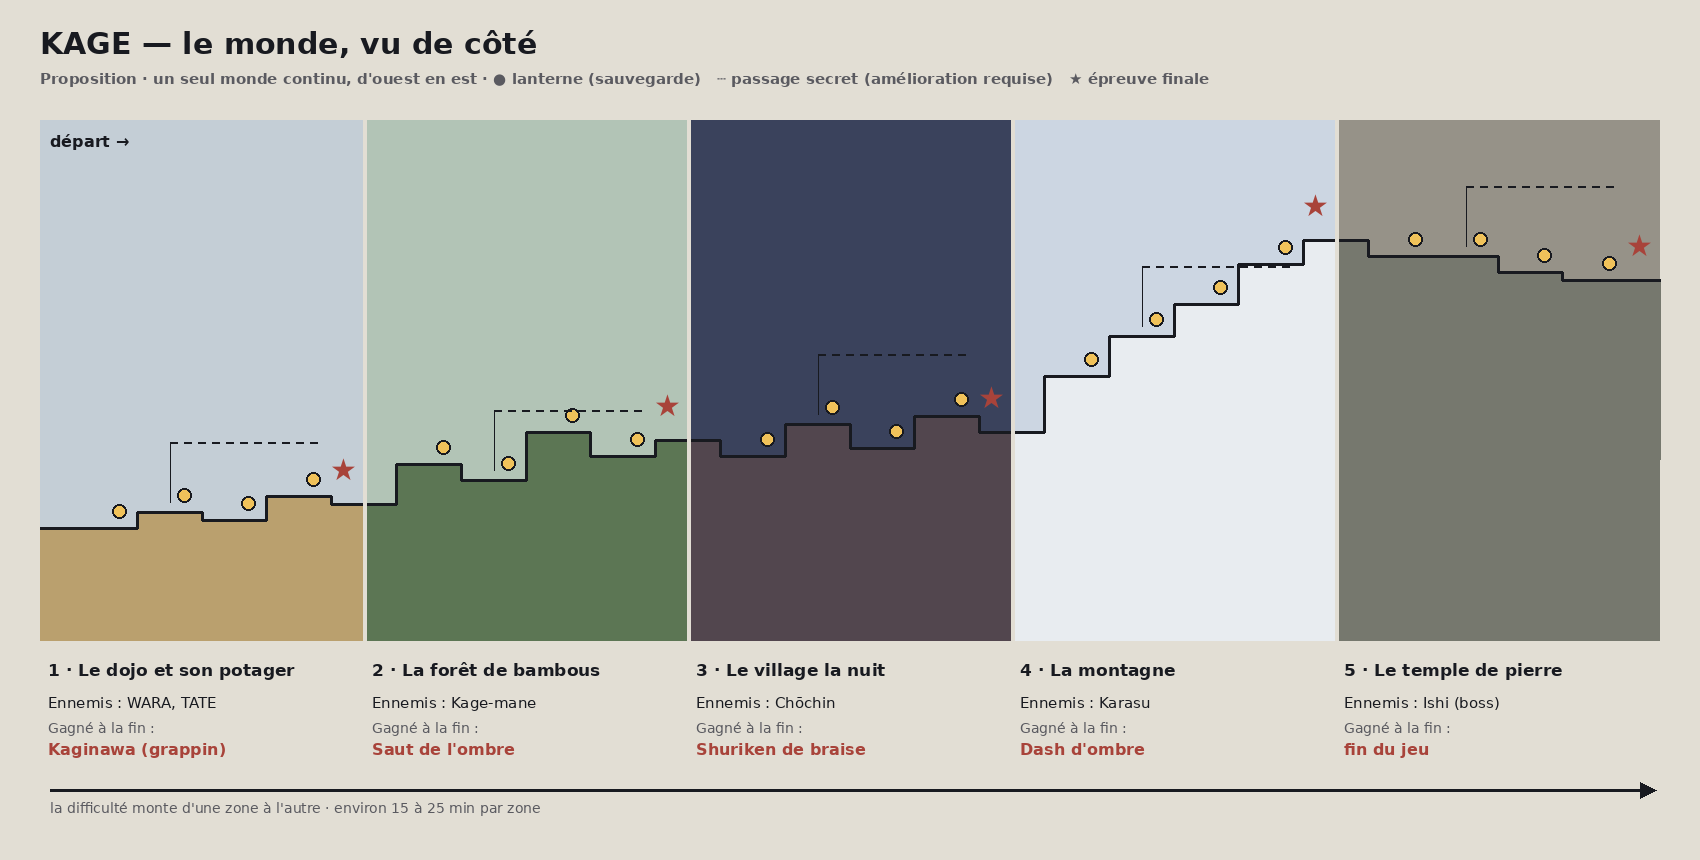
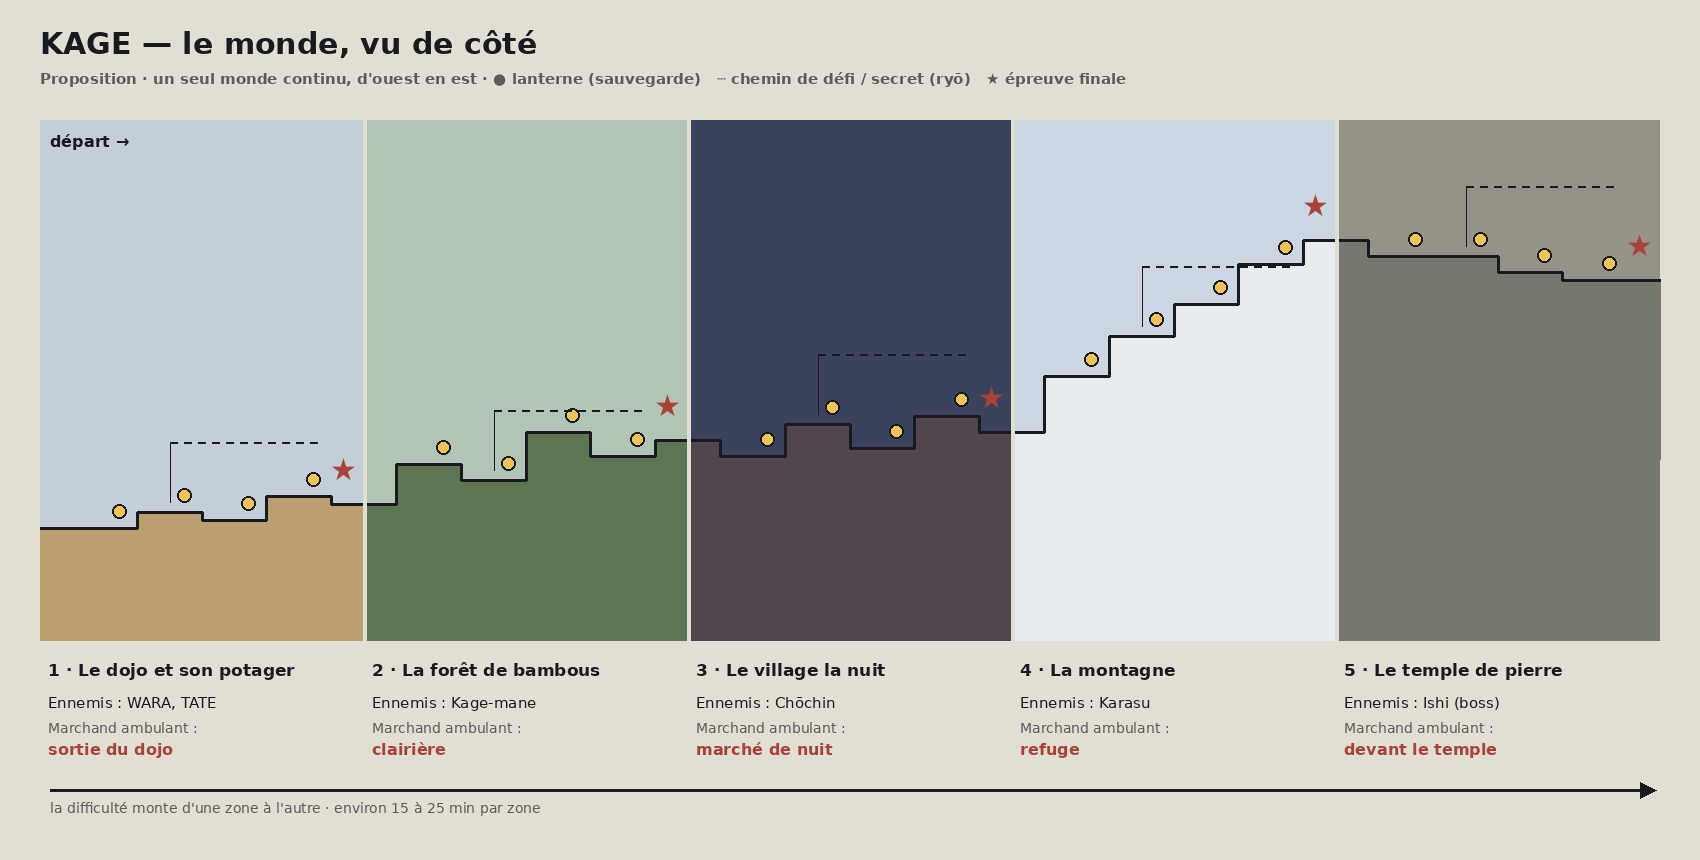
Plan du monde : mécaniques toutes actives, marchand, monnaie et skins
Décisions de l'utilisateur intégrées : aucune mécanique à débloquer (tout
est actif dès le début) ; un marchand ambulant croisé à plusieurs endroits
et moments, qui vend des skins de ninja et d'armes à plusieurs prix ; une
monnaie (proposée : les ryō) récoltée en jouant. Améliorations retirées,
carte et questions ouvertes mises à jour.

Claude-Session: https://claude.ai/code/session_01A2iwx3xJBpYvMptTrw61H7

diff --git a/tools/monde_carte.py b/tools/monde_carte.py
@@ -15,15 +15,15 @@ RED = (168, 67, 58)
 
 ZONES = [
     # nom, ennemi(s), amélioration, couleur du ciel, couleur du sol, hauteurs du relief (0..1)
-    ("1 · Le dojo et son potager", "WARA, TATE", "Kaginawa (grappin)", (196, 206, 214), (186, 160, 110),
+    ("1 · Le dojo et son potager", "WARA, TATE", "marchand : sortie du dojo", (196, 206, 214), (186, 160, 110),
      [0.18, 0.18, 0.22, 0.2, 0.26, 0.24]),
-    ("2 · La forêt de bambous", "Kage-mane", "Saut de l'ombre", (178, 196, 182), (92, 118, 84),
+    ("2 · La forêt de bambous", "Kage-mane", "marchand : clairière", (178, 196, 182), (92, 118, 84),
      [0.24, 0.34, 0.3, 0.42, 0.36, 0.4]),
-    ("3 · Le village la nuit", "Chōchin", "Shuriken de braise", (58, 66, 92), (82, 70, 78),
+    ("3 · Le village la nuit", "Chōchin", "marchand : marché de nuit", (58, 66, 92), (82, 70, 78),
      [0.4, 0.36, 0.44, 0.38, 0.46, 0.42]),
-    ("4 · La montagne", "Karasu", "Dash d'ombre", (204, 214, 226), (232, 236, 240),
+    ("4 · La montagne", "Karasu", "marchand : refuge", (204, 214, 226), (232, 236, 240),
      [0.42, 0.56, 0.66, 0.74, 0.84, 0.9]),
-    ("5 · Le temple de pierre", "Ishi (boss)", "fin du jeu", (150, 146, 136), (118, 120, 110),
+    ("5 · Le temple de pierre", "Ishi (boss)", "marchand : devant le temple", (150, 146, 136), (118, 120, 110),
      [0.9, 0.86, 0.86, 0.82, 0.8, 0.8]),
 ]
 
@@ -41,7 +41,7 @@ def main():
     d = ImageDraw.Draw(im)
     d.text((40, 26), "KAGE — le monde, vu de côté", fill=INK, font=font(30))
     d.text((40, 70), "Proposition · un seul monde continu, d'ouest en est · ● lanterne (sauvegarde)   "
-                     "┄ passage secret (amélioration requise)   ★ épreuve finale", fill=GREY, font=font(15))
+                     "┄ chemin de défi / secret (ryō)   ★ épreuve finale", fill=GREY, font=font(15))
     x0, top, bottom = 40, 120, 640
     zw = (W - 80) // len(ZONES)
     hmax = bottom - top - 120
@@ -85,8 +85,8 @@ def main():
         ty = bottom + 20
         d.text((zx + 8, ty), name, fill=INK, font=font(17))
         d.text((zx + 8, ty + 34), f"Ennemis : {foes}", fill=INK, font=font(15, bold=False))
-        d.text((zx + 8, ty + 60), "Gagné à la fin :", fill=GREY, font=font(14, bold=False))
-        d.text((zx + 8, ty + 80), upgrade, fill=RED, font=font(16))
+        d.text((zx + 8, ty + 60), "Marchand ambulant :", fill=GREY, font=font(14, bold=False))
+        d.text((zx + 8, ty + 80), upgrade.replace("marchand : ", ""), fill=RED, font=font(16))
     # KAGE au départ, flèche de progression
     d.text((x0 + 10, top + 12), "départ →", fill=INK, font=font(16))
     d.line([(x0 + 10, bottom + 150), (W - 60, bottom + 150)], fill=INK, width=3)

diff --git a/docs/MONDE.md b/docs/MONDE.md
@@ -1,6 +1,6 @@
 # KAGE — le monde (plan de conception)
 
-> **Statut : proposition à valider.** Rien de ce plan n'est encore codé. Les noms, l'ordre des zones et les améliorations sont des propositions ; les questions ouvertes sont regroupées à la fin.
+> **Statut : proposition à valider.** Rien de ce plan n'est encore codé (le coup de pied, la marche et l'énergie, déjà faits, sont à part). Les noms, l'ordre des zones, la monnaie et le marchand sont des propositions ; les décisions déjà prises et les questions ouvertes sont regroupées à la fin.
 
 ![Carte schématique du monde](monde/carte_du_monde.png)
 
@@ -10,7 +10,8 @@
 
 - **Un seul monde continu**, parcouru d'ouest en est (et parfois vers le haut), sans menu de niveaux : on passe d'une zone à l'autre en marchant. C'est le choix de l'utilisateur, et ce qui fera l'originalité de KAGE.
 - **Le rythme reste celui d'un jeu de plateforme rapide et exigeant** (esprit Geometry Dash, Celeste) : le monde est avant tout un **long parcours vers l'avant**, pas un labyrinthe qu'on explore lentement. On avance, ça accélère, ça se corse.
-- **Une touche d'exploration** (« metroidvania léger ») : à côté du chemin principal, des passages secondaires mènent à des secrets et à des raccourcis. Certains ne s'ouvrent qu'avec une amélioration obtenue plus loin : on peut revenir les chercher, **mais ce n'est jamais obligatoire pour finir le jeu**.
+- **Une touche d'exploration** : à côté du chemin principal, des passages secondaires plus difficiles mènent à des secrets, à des raccourcis et à des pièces de monnaie. **Ce n'est jamais obligatoire pour finir le jeu.**
+- **Aucune mécanique ne se débloque** (décision de l'utilisateur) : KAGE a **toutes ses capacités dès le début**. Ce qui change au fil du monde, c'est le terrain, les ennemis et l'exigence, pas le kit du joueur.
 - **Les lanternes** (déjà en jeu) deviennent le cœur du système : point de retour après une chute **et** sauvegarde automatique.
 
 ## 2. L'histoire (en fond, jamais envahissante)
@@ -21,13 +22,13 @@ Pas de dialogues longs : quelques panneaux, des images, des sons. L'histoire se 
 
 ## 3. Les cinq zones
 
-| # | Zone | Ambiance | Ennemis | Ce qu'on y apprend | Épreuve finale | Amélioration gagnée |
+| # | Zone | Ambiance | Ennemis | Ce qu'on y apprend | Épreuve finale | Marchand |
 |---|---|---|---|---|---|---|
-| 1 | **Le dojo et son potager** | jour, bois clair, paille | WARA, TATE | toutes les bases (le niveau 1 actuel en est le noyau) | le grand gong du dojo, défendu par des TATE | **Kaginawa** (grappin) |
-| 2 | **La forêt de bambous** | brume, verts sourds, hauteur | Kage-mane (kunaïs) | grappin, bambous qui plient, se battre à distance | duel contre la cheffe Kage-mane | **Saut de l'ombre** (double saut) |
-| 3 | **Le village la nuit** | toits, lanternes, obscurité | Chōchin (lanternes volantes) | lumière et obscurité, courses sur les toits | la grande lanterne au-dessus du marché | **Shuriken de braise** (allume, brûle le papier et la paille) |
-| 4 | **La montagne** | vent, neige, glace | Karasu (corbeaux) | vent qui pousse, glace qui glisse, ascension verticale | l'ascension dans la tempête | **Dash d'ombre** (traverse les projectiles et certains ennemis) |
-| 5 | **Le temple de pierre** | pierre, mousse, or terni | Ishi (sumo de pierre) et tous les autres | tout, combiné | **Ishi**, puis le talisman maître | fin du jeu |
+| 1 | **Le dojo et son potager** | jour, bois clair, paille | WARA, TATE | toutes les bases (le niveau 1 actuel en est le noyau) | le grand gong du dojo, défendu par des TATE | oui, à la sortie du dojo |
+| 2 | **La forêt de bambous** | brume, verts sourds, hauteur | Kage-mane (kunaïs) | bambous qui plient, hauteurs, se battre à distance | duel contre la cheffe Kage-mane | oui, dans une clairière |
+| 3 | **Le village la nuit** | toits, lanternes, obscurité | Chōchin (lanternes volantes) | lumière et obscurité, courses sur les toits | la grande lanterne au-dessus du marché | oui, au marché de nuit |
+| 4 | **La montagne** | vent, neige, glace | Karasu (corbeaux) | vent qui pousse, glace qui glisse, ascension verticale | l'ascension dans la tempête | oui, dans un refuge |
+| 5 | **Le temple de pierre** | pierre, mousse, or terni | Ishi (sumo de pierre) et tous les autres | tout, combiné | **Ishi**, puis le talisman maître | oui, devant le temple (dernière visite) |
 
 Chaque zone compte **4 à 6 « passages »** (une idée de gameplay chacun, d'environ 1 à 3 écrans), séparés par des lanternes, puis l'épreuve finale. Pour une première partie, compter environ **15 à 25 minutes par zone**, soit **1 h 30 à 2 h** au total (davantage pour tout trouver).
 
@@ -38,28 +39,31 @@ Chaque zone compte **4 à 6 « passages »** (une idée de gameplay chacun, d'en
 - **La zone suivante** suppose que l'on maîtrise la précédente : la marge d'erreur se réduit (plateformes plus étroites, ennemis plus nombreux, moins de lanternes).
 - **Des chemins de défi facultatifs**, plus durs, mènent aux secrets : les joueurs qui veulent plus de difficulté la trouvent là, sans bloquer les autres.
 
-## 5. Les améliorations de KAGE
+## 5. Monnaie, marchand et skins
 
-**KAGE commence avec tout son kit actuel** : course, sprint, saut, dash, glissade, saut mural, sabre, coup aérien, shuriken. Le niveau 1 actuel apprend déjà tout cela et devient le cœur de la zone 1.
+**KAGE a toutes ses capacités dès le départ** (course, sprint, marche à bout de souffle, saut, saut mural, dash, glissade, sabre, coup aérien, coup de pied, shuriken). La progression ne passe pas par de nouvelles capacités, mais par **l'apparence** et la **collection**.
 
-Les améliorations ajoutent des **capacités nouvelles**, une par zone. Chacune ouvre une nouvelle façon de jouer, et des passages secrets dans les zones précédentes :
+**La monnaie : les ryō** (petites pièces d'or percées, à proposer en planche de design)
+- **Où les trouver** : posées sur le chemin, en plus grand nombre sur les chemins de défi et dans les secrets ; quelques-unes lâchées par les ennemis vaincus ; une bourse à chaque épreuve finale.
+- **Affichage** : un compteur discret à côté du stock de shurikens, qui n'apparaît qu'au ramassage (comme l'anneau d'énergie).
+- **Elles se gardent** : on ne les perd pas en tombant ; elles sont enregistrées avec la partie.
 
-| Amélioration | Effet | Ce qu'elle ouvre |
-|---|---|---|
-| Kaginawa (grappin) | s'accrocher à des anneaux de fer et se balancer | grands vides, anneaux cachés dans le dojo |
-| Saut de l'ombre (double saut) | un second saut en l'air | rebords trop hauts, raccourcis |
-| Shuriken de braise | allume les lanternes éteintes, brûle les portes de papier et les bottes de paille | passages murés de papier, pièces sombres |
-| Dash d'ombre | pendant le dash, KAGE traverse les projectiles et les petits ennemis | couloirs de kunaïs, corbeaux en nuée |
+**Le marchand** (personnage à concevoir en planche de design, comme les ennemis)
+- Un **marchand ambulant** que l'on retrouve **à plusieurs endroits du monde, à différents moments**, au moins une fois par zone, souvent juste après une lanterne. Il voyage plus vite que KAGE, on le croise au détour du chemin, et il a toujours un petit mot.
+- Il vend des **skins de ninja** (tenues de KAGE) et des **skins d'armes** (sabre, shuriken), **à plusieurs prix**.
+- **Son stock change selon la zone** : de nouveaux articles apparaissent au fil du voyage. Les anciens restent en vente, pour qu'on ne rate jamais rien définitivement.
 
-S'y ajoutent des **trouvailles cachées**, rangées dans les secrets :
-- **Perles de vie** : 3 perles = +1 point de vie (5 au départ, jusqu'à 8).
-- **Rouleaux d'énergie** : énergie maximale un peu plus haute.
-- **Étui à shurikens** : +1 shuriken de stock (3 au départ, jusqu'à 5).
-- **Parchemins** (à collectionner) : un dessin et quelques lignes d'histoire par parchemin.
+**Les skins**
+- **Tenue de KAGE** : une palette de couleurs différente sur la même silhouette. Le système de palette par « slots » existe déjà (`skins/encre.json`) : un skin de tenue ne touche jamais au dessin, seulement aux couleurs.
+- **Armes** : un nouveau dessin ou de nouvelles couleurs pour la lame et le shuriken, sans changer leur portée ni leurs dégâts. **Les skins sont purement visuels.**
+- **Fourchettes de prix** (à régler en jouant) : articles simples à environ 50 ryō, articles rares de 150 à 300 ryō, un ou deux articles de prestige très chers pour ceux qui fouillent tout.
+- **Garde-robe** : on choisit sa tenue et ses armes à n'importe quelle lanterne, ou dans le menu pause.
+
+**Autres trouvailles** (à confirmer) : des **parchemins** à collectionner (un dessin et quelques lignes d'histoire chacun).
 
 ## 6. La sauvegarde
 
-- **Automatique** à chaque lanterne allumée : la dernière lanterne, les améliorations, les trouvailles, les parchemins, le temps de jeu total et le nombre de chutes.
+- **Automatique** à chaque lanterne allumée : la dernière lanterne, les ryō, les skins achetés et équipés, les parchemins, les secrets trouvés, le temps de jeu total et le nombre de chutes.
 - **Écran titre** : *Continuer* / *Nouvelle partie*. Trois emplacements de sauvegarde.
 - **Au chargement**, KAGE repart de la dernière lanterne ; les ennemis de la zone reviennent (comme aujourd'hui quand on tombe).
 - **Enregistrée dans le navigateur** (`localStorage`), avec un numéro de version pour pouvoir faire évoluer le format. Si le navigateur refuse d'enregistrer, le jeu fonctionne quand même (sans sauvegarde) et le signale discrètement.
@@ -77,17 +81,24 @@ S'y ajoutent des **trouvailles cachées**, rangées dans les secrets :
 ## 8. Ordre de construction proposé
 
 1. **Le socle du monde** : écran titre, sauvegarde, système de salles et de zones, transitions, menu pause. Le niveau 1 actuel devient la première salle du dojo.
-2. **Zone 1 complète** : planche du décor du dojo et du potager, passages, épreuve du gong, puis l'amélioration *Kaginawa* (planche, animations de KAGE, intégration).
-3. **Zone 2**, avec Kage-mane : planche de design d'abord, comme pour WARA. Puis les zones 3, 4 et 5, chacune avec son ennemi et son amélioration.
+2. **Zone 1 complète** : planche du décor du dojo et du potager, passages, épreuve du gong. **Monnaie (ryō) et premier passage du marchand**, avec ses planches de design et un premier lot de skins.
+3. **Zone 2**, avec Kage-mane : planche de design d'abord, comme pour WARA. Puis les zones 3, 4 et 5, chacune avec son ennemi, son passage du marchand et de nouveaux skins.
 4. **En parallèle, au fil de l'eau** : sons validés à l'oreille, musique par zone, réglages de difficulté en jouant.
 
 Chaque étape est mise en ligne sur le site dès qu'elle est fusionnée.
 
-## 9. Questions ouvertes
+## 9. Décisions prises
 
-1. **Le kit de départ** : KAGE commence-t-il bien avec toutes ses capacités actuelles, les améliorations ajoutant des capacités nouvelles ? (Autre option : retirer certaines capacités au départ, par exemple le dash, pour les faire gagner.)
-2. **Les retours en arrière** : libres à tout moment, ou seulement par des raccourcis qui s'ouvrent au fil du jeu ?
-3. **Les zones et leur ordre** : te conviennent-ils ? Une zone à ajouter, retirer ou échanger ?
-4. **Les améliorations** : lesquelles te plaisent, lesquelles changer ?
+- **Un monde unique** plutôt que des niveaux.
+- **Aucune mécanique à débloquer** : toutes les capacités de KAGE sont actives dès le début.
+- **Un marchand ambulant** croisé à plusieurs endroits et à plusieurs moments, qui vend des skins de ninja et d'armes à plusieurs prix, payés avec une **monnaie récoltée** en jouant.
+- **Le coup de pied, la marche à bout de souffle et l'énergie à 85 %** sont faits et en ligne.
+
+## 10. Questions ouvertes
+
+1. **Les retours en arrière** : libres à tout moment, ou seulement par des raccourcis qui s'ouvrent ?
+2. **Les zones et leur ordre** : te conviennent-ils ? Une zone à ajouter, retirer ou échanger ?
+3. **La monnaie** : le nom « ryō » et les pièces d'or percées te vont-ils ?
+4. **Les vies et l'énergie** : faut-il des trouvailles qui augmentent la vie ou l'énergie maximales (ce serait une progression, sans être une nouvelle mécanique), ou tout reste fixe ?
 5. **La durée visée** : environ 2 h pour une première partie, ça te va ?
 6. **L'histoire des talismans** : la garder comme fil rouge ?
